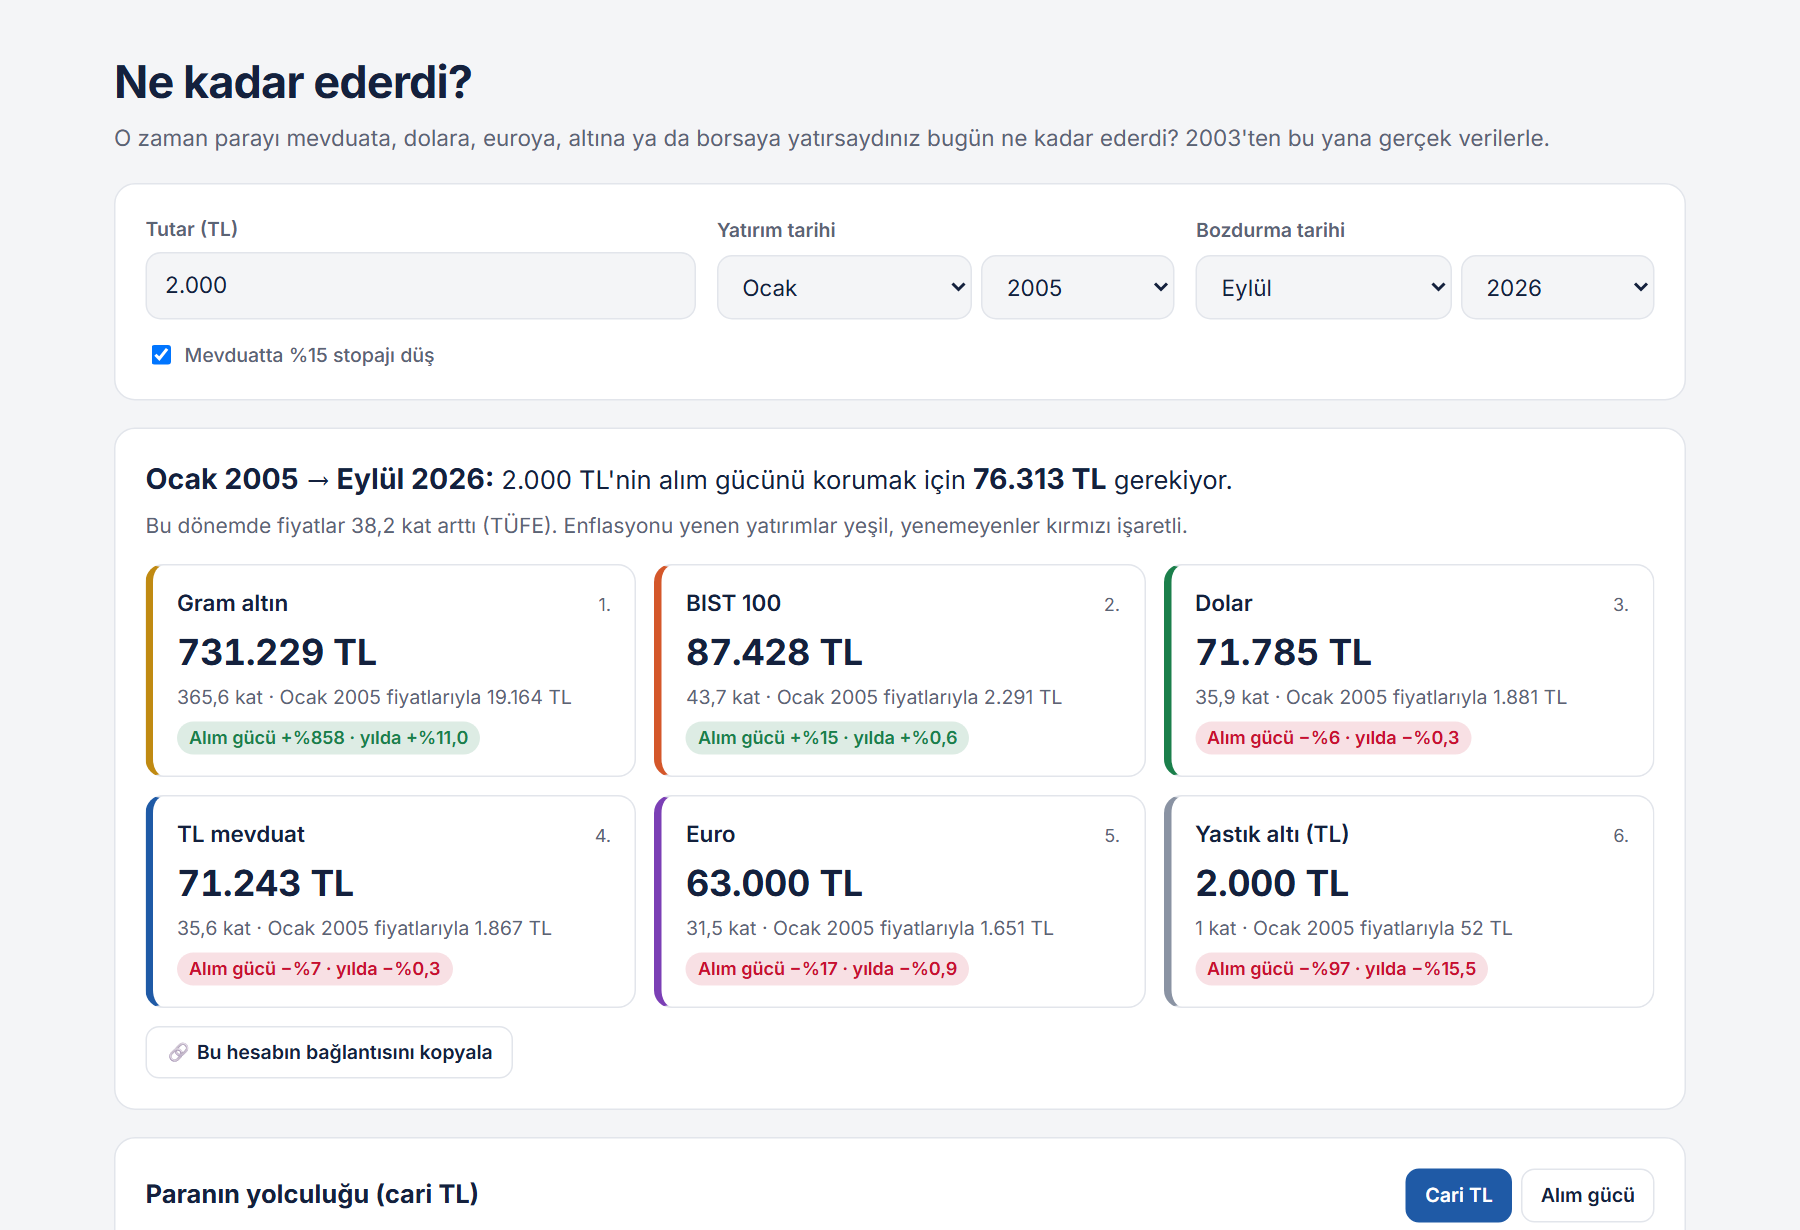
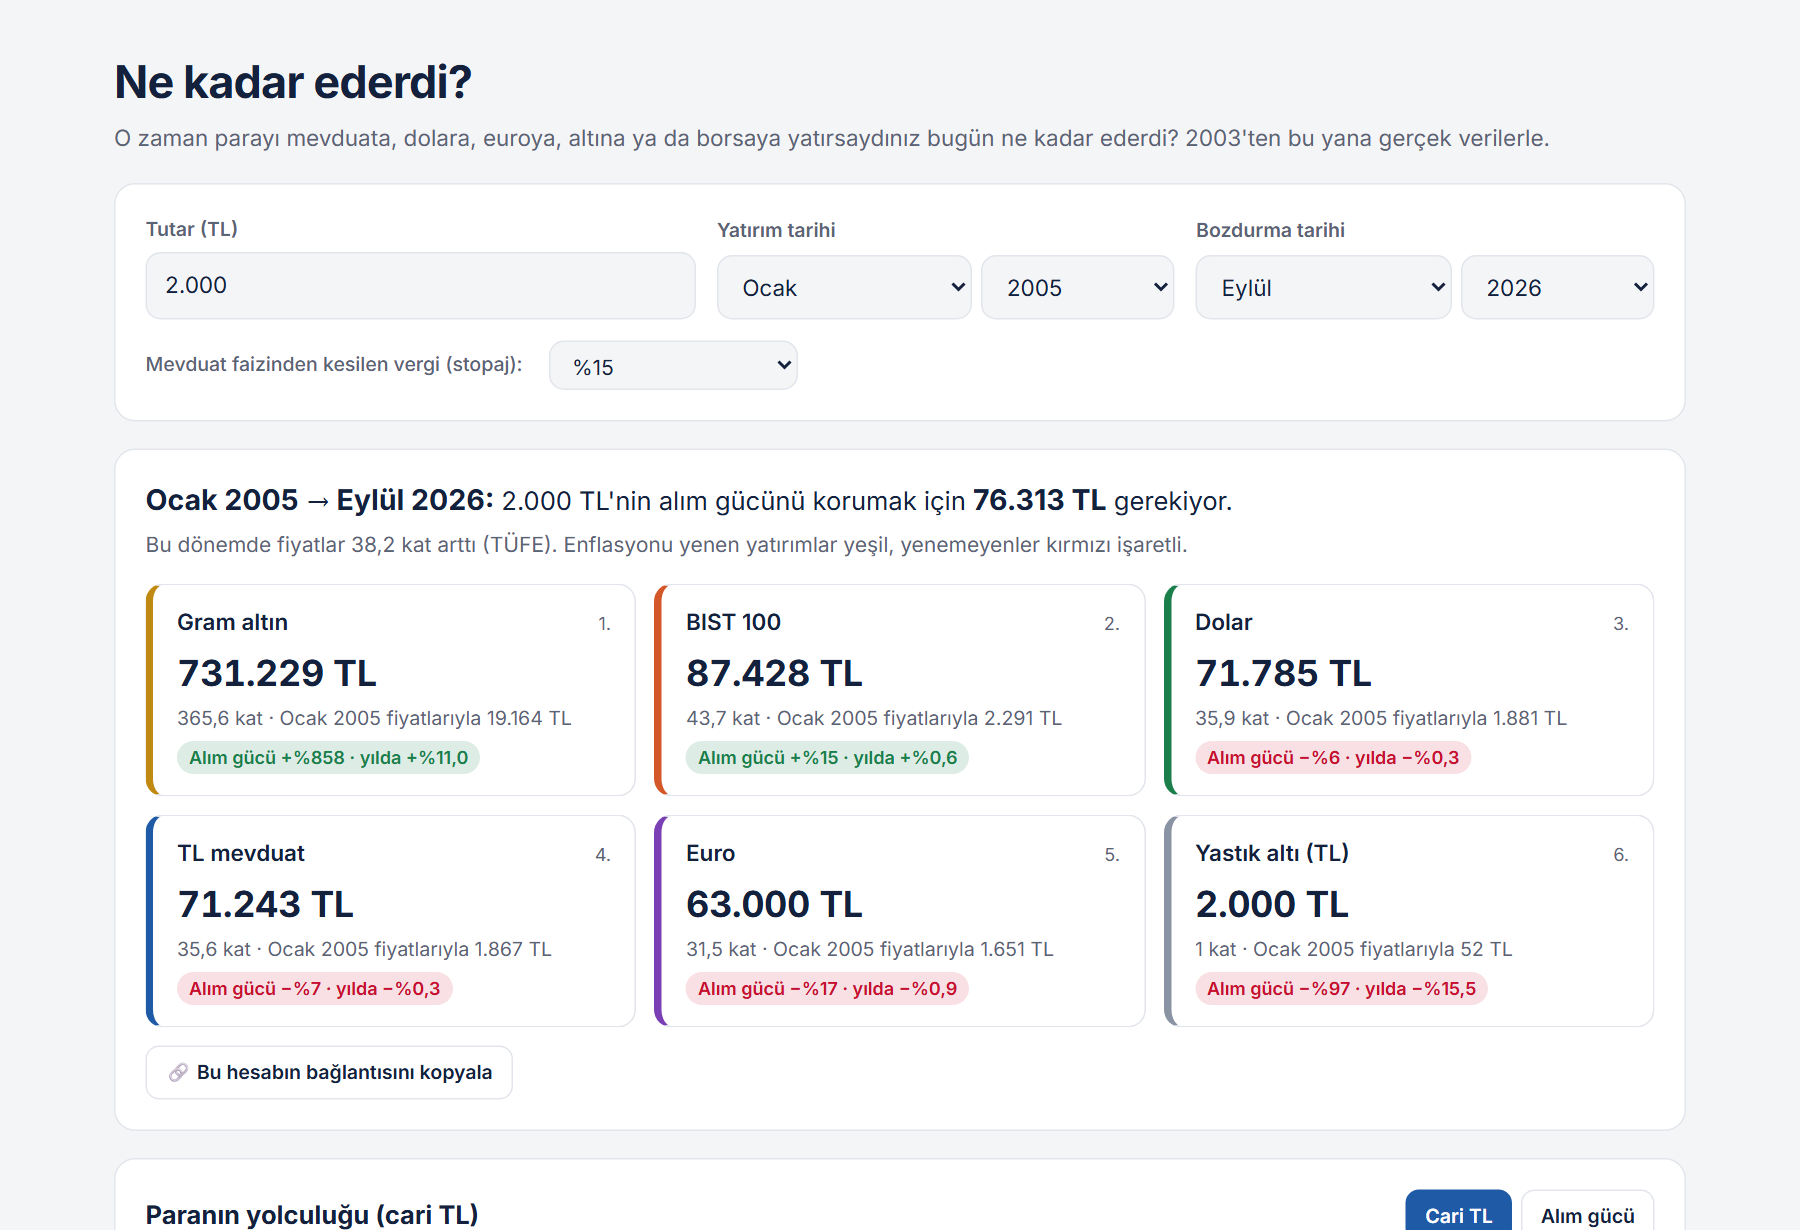
Yazı analizleri ve grafikleri; stopaj oranı seçilebilir

diff --git a/index.html b/index.html
@@ -46,6 +46,7 @@
   .secenek { display: flex; gap: 18px; flex-wrap: wrap; margin-top: 14px; color: var(--muted); font-size: 14px; }
   .secenek label { display: flex; gap: 6px; align-items: center; font-weight: 500; margin: 0; cursor: pointer; }
   .secenek input { width: auto; }
+  .secenek select { padding: 6px 10px; }
   .ozet { font-size: 17px; margin: 0 0 4px; }
   .ozet b { font-size: 19px; }
   .ozet-alt { color: var(--muted); margin: 0; font-size: 14px; }
@@ -107,7 +108,14 @@
       </div>
     </div>
     <div class="secenek">
-      <label><input type="checkbox" id="stopaj" checked> Mevduatta %15 stopajı düş</label>
+      <label for="stopaj">Mevduat faizinden kesilen vergi (stopaj):</label>
+      <select id="stopaj" style="width:auto">
+        <option value="0">Yok (brüt faiz)</option>
+        <option value="5">%5</option>
+        <option value="10">%10</option>
+        <option value="15" selected>%15</option>
+        <option value="17.5">%17,5 (2026 oranı)</option>
+      </select>
     </div>
   </section>
 
@@ -136,7 +144,7 @@
   <section class="panel not">
     <h3>Nasıl hesaplanıyor?</h3>
     <ul>
-      <li><b>Mevduat:</b> Para her ay, o ay bankaların 3 aya kadar vadeli TL mevduata fiilen uyguladığı ağırlıklı ortalama faizin 1/12'si kadar büyür ve faiz anaparaya eklenir (TCMB). Stopaj seçiliyse faizin %15'i düşülür; gerçekte stopaj oranı yıllar içinde %0 ile %18 arasında değişti.</li>
+      <li><b>Mevduat:</b> Para her ay, o ay bankaların 3 aya kadar vadeli TL mevduata fiilen uyguladığı ağırlıklı ortalama faizin 1/12'si kadar büyür ve faiz anaparaya eklenir (TCMB). Seçtiğiniz stopaj oranı faizden düşülür; gerçekte bu oran yıllar içinde değişti (bugün 6 aya kadar vadede %17,5).</li>
       <li><b>Dolar ve euro:</b> Başlangıç ayının ortalama kurundan alınır, bitiş ayının ortalama kurundan bozdurulur (Avrupa Merkez Bankası referans kurları).</li>
       <li><b>Altın:</b> Gram altın = ons fiyatı ($) × dolar kuru ÷ 31,1035. Kuyumcu makası ve işçilik dahil değil (Dünya Bankası, aylık ortalama ons fiyatı).</li>
       <li><b>BIST 100:</b> Ay sonu kapanış değerleri. Bu bir fiyat endeksi; temettüler dahil değil, yani hisse getirisini olduğundan düşük gösterir.</li>
@@ -188,7 +196,7 @@ const indeks = (y, m) => V.aylar.indexOf(`${y}-${String(m).padStart(2, "0")}`);
 
 // i. aydan j. aya her varlığın büyüme çarpanı (j >= i)
 function seriler(i, j) {
-  const s = $("stopaj").checked ? 0.15 : 0;
+  const s = +$("stopaj").value / 100;
   const out = { mevduat: [1], usd: [], eur: [], altin: [], bist: [], tl: [], tufe: [] };
   for (let k = i; k <= j; k++) {
     if (k > i) out.mevduat.push(out.mevduat.at(-1) * (1 + V.faiz[k - 1] / 1200 * (1 - s)));
@@ -228,7 +236,7 @@ function hesapla() {
 
   ciz(i, j, S, T);
   const q = new URLSearchParams({ tutar: T, bas: V.aylar[i], son: V.aylar[j] });
-  if (!$("stopaj").checked) q.set("stopaj", "0");
+  if ($("stopaj").value !== "15") q.set("stopaj", $("stopaj").value);
   history.replaceState(null, "", "?" + q);
 }
 
@@ -292,7 +300,7 @@ fetch("veri.json").then(r => r.json()).then(d => {
   if (j < 0) j = V.aylar.length - 1;
   ayarla(i, j);
   if (p.get("tutar")) $("tutar").value = (+p.get("tutar")).toLocaleString("tr-TR");
-  if (p.get("stopaj") === "0") $("stopaj").checked = false;
+  if ([...$("stopaj").options].some(o => o.value === p.get("stopaj"))) $("stopaj").value = p.get("stopaj");
   $("kaynakNot").textContent = `Veri: ${ayAdi(V.aylar[0])} – ${ayAdi(V.aylar.at(-1))}. Kaynaklar: IMF (TÜFE), TCMB (mevduat faizi), Avrupa Merkez Bankası (kurlar), Dünya Bankası (altın), Borsa İstanbul / Yahoo Finance (BIST 100). Son güncelleme: ${V.guncelleme}.`;
   hesapla();
 });

diff --git a/analiz.py b/analiz.py
@@ -1,0 +1,214 @@
+"""Yazı için analiz ve grafikler: "Mevduat mı, altın mı, döviz mi?"
+
+Girdi: veri/aylik_seri.csv (veri_hazirla.py üretir), veri/imf_tavan_faiz.csv (karşılaştırma için)
+Çıktı: gorseller/*.png ve ekrana yazdırılan rakamlar
+"""
+from pathlib import Path
+
+import matplotlib
+matplotlib.use("Agg")
+import matplotlib.pyplot as plt
+import matplotlib.ticker as mtick
+import numpy as np
+import pandas as pd
+
+KOK = Path(__file__).parent
+GORSEL = KOK / "gorseller"
+GORSEL.mkdir(exist_ok=True)
+STOPAJ = 0.15
+TUTAR = 1000
+BAS, SON = "2005-01", "2026-09"
+
+AD = {"altin": "Gram altın", "bist": "BIST 100", "usd": "Dolar", "mevduat": "TL mevduat", "eur": "Euro", "tl": "Yastık altı"}
+RENK = {"altin": "#C08A12", "bist": "#D4572A", "usd": "#1B7F4B", "mevduat": "#1F5AA6", "eur": "#7B3FB5", "tl": "#8A93A3"}
+plt.rcParams.update({
+    "figure.dpi": 110, "savefig.dpi": 160, "axes.spines.top": False, "axes.spines.right": False,
+    "axes.grid": True, "grid.alpha": 0.25, "axes.titleweight": "bold", "axes.titlesize": 13, "font.size": 10.5,
+})
+
+
+def kaydet(fig, ad, kaynak="IMF, TCMB, ECB, Dünya Bankası, Borsa İstanbul"):
+    fig.text(0.99, 0.005, f"Kaynak: {kaynak} · Analiz: Mehmet Vural", ha="right", va="bottom", fontsize=8, color="#777")
+    fig.tight_layout(rect=(0, 0.03, 1, 1))
+    fig.savefig(GORSEL / f"{ad}.png", bbox_inches="tight", facecolor="white")
+    plt.close(fig)
+
+
+def tl(x):
+    return f"{x:,.0f}".replace(",", ".") + " TL"
+
+
+# --- Seri: her varlık için "1 TL'nin değeri" endeksi -------------------------------
+d = pd.read_csv(KOK / "veri" / "aylik_seri.csv", index_col=0)
+d.index = pd.PeriodIndex(d.index, freq="M")
+deger = pd.DataFrame({
+    "altin": d.altin_gram, "bist": d.bist, "usd": d.usd, "eur": d.eur,
+    "mevduat": (1 + d.faiz / 1200 * (1 - STOPAJ)).cumprod().shift(1, fill_value=1.0),
+    "tl": 1.0,
+})
+tufe = d.tufe
+reel = deger.div(tufe, axis=0)  # alım gücü endeksi
+
+
+def getiri(bas, son, gercek=True):
+    g = reel if gercek else deger
+    return g.loc[son] / g.loc[bas] - 1
+
+
+# --- 1. Ana sonuç: Ocak 2005'te 1.000 TL ---------------------------------------
+enf = tufe[SON] / tufe[BAS]
+r = getiri(BAS, SON).sort_values()
+n = getiri(BAS, SON, gercek=False)
+print(f"Fiyatlar {BAS}→{SON}: {enf:.1f} kat; gereken {tl(TUTAR * enf)}")
+for k in r.index[::-1]:
+    print(f"  {AD[k]:12s} cari {tl(TUTAR * (1 + n[k])):>12s}  alım gücü {TUTAR * (1 + r[k]):>8.0f} TL ({r[k]:+.0%})")
+
+fig, ax = plt.subplots(figsize=(10, 5))
+y = np.arange(len(r))
+ax.barh(y, TUTAR * (1 + r.values), color=[RENK[k] for k in r.index])
+ax.axvline(TUTAR, color="#14213d", lw=1.5, ls="--")
+ax.text(TUTAR + 80, -0.75, "kesikli çizgi: başladığınız yer (1.000 TL)", color="#14213d", fontsize=9, va="center")
+ax.set_ylim(-1.1, len(r) - 0.5)
+for i, k in enumerate(r.index):
+    v = TUTAR * (1 + r[k])
+    ax.text(v + 120, i, f"{v:,.0f} TL".replace(",", ".") + f"   (bugün {tl(TUTAR * (1 + n[k]))})", va="center", fontsize=9.5)
+ax.set_yticks(y, [AD[k] for k in r.index])
+ax.set_xlim(0, TUTAR * (1 + r.max()) * 1.45)
+ax.xaxis.set_major_formatter(mtick.FuncFormatter(lambda v, _: f"{v:,.0f}".replace(",", ".")))
+ax.set_xlabel("Alım gücü: 2005 fiyatlarıyla kaç TL'lik mal alabilir?")
+ax.set_title("Ocak 2005'te 1.000 TL yatırsaydınız, Eylül 2026'da alım gücünüz")
+ax.grid(axis="y", visible=False)
+kaydet(fig, "1_sonuc")
+
+# --- 2. Alım gücünün yolculuğu ---------------------------------------------------
+yol = TUTAR * reel.loc[BAS:SON] / reel.loc[BAS]
+fig, ax = plt.subplots(figsize=(10, 5.2))
+x = yol.index.to_timestamp()
+for k in ["altin", "bist", "usd", "mevduat", "eur", "tl"]:
+    ax.plot(x, yol[k], color=RENK[k], lw=2.2 if k in ("altin", "mevduat") else 1.6, ls="--" if k == "tl" else "-", label=AD[k])
+ax.axhline(TUTAR, color="#14213d", lw=1, ls=":")
+ax.set_yscale("log")
+ax.set_yticks([50, 100, 250, 500, 1000, 2500, 5000, 10000, 20000])
+ax.yaxis.set_major_formatter(mtick.FuncFormatter(lambda v, _: f"{v:,.0f}".replace(",", ".")))
+ax.set_ylabel("2005 fiyatlarıyla TL (logaritmik)")
+ax.set_title("1.000 TL'nin alım gücü yıllar içinde nasıl değişti?")
+ax.legend(ncol=3, frameon=False, loc="upper left")
+kaydet(fig, "2_yolculuk")
+
+# --- 3. Yıl yıl kazananlar (takvim yılı reel getiri) -------------------------------
+yillar = list(range(2003, 2026))
+yillik = pd.DataFrame({y: reel.loc[f"{y}-12"] / reel.loc[f"{y - 1}-12"] - 1 if y > 2003 else
+                       reel.loc["2003-12"] / reel.loc["2003-01"] - 1 for y in yillar}).T
+yillik.index.name = "yil"
+sira = ["altin", "bist", "usd", "eur", "mevduat"]
+birinci = yillik[sira].idxmax(axis=1)
+print("\nYıllık birinciler:", birinci.map(AD).value_counts().to_dict())
+print("Mevduatın enflasyonu yendiği yıllar:", [y for y in yillar if yillik.loc[y, "mevduat"] > 0])
+print("Son ve ilk sırada olma:", yillik[sira].idxmin(axis=1).map(AD).value_counts().to_dict())
+
+fig, ax = plt.subplots(figsize=(12, 4.6))
+for j, y in enumerate(yillar):
+    s = yillik.loc[y, sira].sort_values(ascending=False)
+    for i, (k, v) in enumerate(s.items()):
+        ax.add_patch(plt.Rectangle((j, -i), 0.94, 0.9, color=RENK[k], alpha=0.95 if v > 0 else 0.35, lw=0))
+        ax.text(j + 0.47, -i + 0.45, f"{v * 100:+.0f}", ha="center", va="center", fontsize=7.6,
+                color="white" if v > 0 else "#14213d", fontweight="bold")
+ax.set_xlim(0, len(yillar)); ax.set_ylim(-len(sira) + 0.9, 1)
+ax.set_xticks(np.arange(len(yillar)) + 0.47, [str(y) if y > 2003 else "2003*" for y in yillar], fontsize=8.5, rotation=90)
+ax.set_yticks([0.45 - i for i in range(len(sira))], ["1.", "2.", "3.", "4.", "5."])
+ax.grid(False); [ax.spines[s].set_visible(False) for s in ("left", "bottom")]
+ax.tick_params(length=0)
+for k in sira:
+    ax.bar(0, 0, color=RENK[k], label=AD[k])
+ax.legend(ncol=5, frameon=False, loc="lower center", bbox_to_anchor=(0.5, 1.0))
+ax.set_title("Her yıl kim kazandı? Enflasyondan arındırılmış yıllık getiri (%)", pad=30)
+fig.text(0.01, 0.005, "Soluk kutular: o yıl alım gücü kaybettiren yatırım. *2003: Ocak–Aralık.", fontsize=8, color="#777")
+kaydet(fig, "3_yillar")
+
+# --- 4. En kötü dönem: zirveden en büyük reel düşüş --------------------------------
+print("\nZirveden en büyük reel düşüş:")
+dusus = {}
+for k in sira:
+    s = reel[k].loc["2003-01":SON]
+    zirve = s.cummax(); dd = s / zirve - 1
+    dip = dd.idxmin(); tepe = s.loc[:dip].idxmax()
+    sonra = s.loc[dip:]; geri = sonra[sonra >= s[tepe]]
+    toparlanma = geri.index[0] if len(geri) else None
+    dusus[k] = (dd.min(), tepe, dip, toparlanma)
+    print(f"  {AD[k]:12s} {dd.min():+.0%}  {tepe} → {dip}  toparlanma: {toparlanma}")
+
+fig, ax = plt.subplots(figsize=(10, 4.6))
+ks = sorted(sira, key=lambda k: dusus[k][0])
+ax.barh(range(len(ks)), [dusus[k][0] * 100 for k in ks], color=[RENK[k] for k in ks])
+for i, k in enumerate(ks):
+    v, t, dp, tp = dusus[k]
+    ay = lambda p: ["Oca", "Şub", "Mar", "Nis", "May", "Haz", "Tem", "Ağu", "Eyl", "Eki", "Kas", "Ara"][p.month - 1] + f" {p.year}"
+    not_ = f"{ay(t)} → {ay(dp)}  ·  " + (f"eski seviyeye dönüş: {ay(tp)}" if tp is not None else "henüz eski seviyesine dönmedi")
+    ax.text(v * 100 - 1, i, f"%{abs(v) * 100:.0f}   ", ha="right", va="center", fontsize=10, fontweight="bold")
+    ax.text(1, i, not_, va="center", fontsize=9)
+ax.set_yticks(range(len(ks)), [AD[k] for k in ks])
+ax.set_xlim(min(dusus[k][0] for k in ks) * 100 - 14, 70)
+ax.xaxis.set_major_formatter(mtick.FuncFormatter(lambda v, _: f"%{v:.0f}" if v <= 0 else ""))
+ax.set_title("En kötü dönem: Alım gücü zirveden en fazla ne kadar düştü?")
+ax.grid(axis="y", visible=False)
+kaydet(fig, "4_dusus")
+
+# --- 5. Ne kadar beklersen: enflasyonu yenme ihtimali --------------------------------
+sureler = [1, 2, 3, 5, 10]
+olasilik = pd.DataFrame(index=sureler, columns=sira, dtype=float)
+medyan = olasilik.copy()
+s = reel.loc["2003-01":SON]
+for yil in sureler:
+    g = s.shift(-12 * yil) / s - 1
+    g = g.dropna()
+    olasilik.loc[yil] = (g[sira] > 0).mean()
+    medyan.loc[yil] = g[sira].median()
+print("\nEnflasyonu yenme oranı (başlangıç ayları):\n", (olasilik * 100).round(0).to_string())
+print("Medyan reel getiri:\n", (medyan * 100).round(0).to_string())
+
+fig, ax = plt.subplots(figsize=(10, 4.8))
+w = 0.16
+for i, k in enumerate(sira):
+    ax.bar(np.arange(len(sureler)) + (i - 2) * w, olasilik[k] * 100, w * 0.95, color=RENK[k], label=AD[k])
+ax.axhline(50, color="#14213d", lw=1, ls=":", label="%50 (yazı tura)")
+ax.set_xticks(range(len(sureler)), [f"{y} yıl" for y in sureler])
+ax.yaxis.set_major_formatter(mtick.PercentFormatter())
+ax.set_ylim(0, 105)
+ax.set_xlabel("Paranızı ne kadar süre tuttunuz?")
+ax.set_ylabel("Enflasyonu yendiğiniz dönemlerin oranı")
+ax.set_title("Ne kadar uzun beklerseniz: Enflasyonu yenme ihtimali (2003–2026)")
+ax.legend(ncol=6, frameon=False, loc="upper center", bbox_to_anchor=(0.5, -0.17), fontsize=9.5)
+ax.grid(axis="x", visible=False)
+kaydet(fig, "5_sure")
+
+# --- 6. Veri tuzağı: tavan faiz mi, ortalama faiz mi? ---------------------------------
+imf = pd.read_csv(KOK / "veri" / "imf_tavan_faiz.csv")
+imf = pd.Series(imf.OBS_VALUE.values, index=pd.PeriodIndex(imf.TIME_PERIOD.str.replace("-M", "-"), freq="M")).sort_index()
+ort = d.faiz
+fark = (imf - ort).dropna()
+print(f"\nTavan - ortalama faiz farkı: ortalama {fark.mean():.1f} puan, en fazla {fark.max():.1f} ({fark.idxmax()})")
+print("Ocak 2023:", imf["2023-01"], ort["2023-01"])
+mev_tavan = (1 + imf.reindex(d.index).ffill() / 1200 * (1 - STOPAJ)).cumprod().shift(1, fill_value=1.0) / tufe
+t_r = mev_tavan[SON] / mev_tavan[BAS] - 1
+print(f"Tavan faizle mevduat {BAS}→{SON} alım gücü: {t_r:+.0%}  (ortalama faizle {r['mevduat']:+.0%})")
+
+fig, ax = plt.subplots(figsize=(10, 4.6))
+x = ort.index.to_timestamp()
+ax.plot(imf.index.to_timestamp(), imf, color="#C8102E", lw=1.8, label="Uluslararası veri tabanındaki \"mevduat faizi\" (aslında tavan faiz)")
+ax.plot(x, ort, color="#1F5AA6", lw=2.2, label="Bankaların fiilen ödediği ortalama faiz (TCMB)")
+ax.fill_between(x, ort, imf.reindex(ort.index).values, color="#C8102E", alpha=0.08)
+ax.yaxis.set_major_formatter(mtick.PercentFormatter(decimals=0))
+ax.set_title("Hangi mevduat faizi? Tavan ile ortalama arasındaki fark")
+ax.legend(frameon=False, loc="upper center")
+ax.set_ylabel("Yıllık faiz")
+kaydet(fig, "6_faiz_tuzagi", kaynak="IMF, TCMB")
+
+# --- Ek rakamlar -----------------------------------------------------------------
+print("\nBaşlangıç yılına göre (Ocak→Eylül 2026) mevduat ve dolar alım gücü:")
+for y in [2003, 2005, 2010, 2015, 2018, 2020, 2021, 2022, 2023, 2024]:
+    g = getiri(f"{y}-01", SON)
+    print(f"  {y}: " + "  ".join(f"{AD[k]} {g[k]:+.0%}" for k in ["altin", "bist", "usd", "mevduat", "eur", "tl"]))
+print("\nSon 12 ay (2025-09→2026-09):", {AD[k]: f"{v:+.0%}" for k, v in getiri("2025-09", SON).items()})
+print("Ocak 2005 → Eylül 2026 gram altın:", round(d.altin_gram[BAS], 1), "→", round(d.altin_gram[SON]), "TL;",
+      "dolar:", round(d.usd[BAS], 2), "→", round(d.usd[SON], 2))
+print("Yıllık enflasyon ortalaması (bileşik):", f"{enf ** (12 / (len(yol) - 1)) - 1:.1%}")

diff --git a/README.md b/README.md
@@ -12,7 +12,7 @@ Tutarı ve iki tarihi seçin; sayfa altı yatırım seçeneğinin sonucunu hem c
 
 | Seçenek | Nasıl hesaplanıyor? | Kaynak |
 |---|---|---|
-| **TL mevduat** | Para her ay, bankaların 3 aya kadar vadeli TL mevduata fiilen uyguladığı ağırlıklı ortalama faizin 1/12'si kadar büyür (aylık bileşik). İsteğe bağlı %15 stopaj. | TCMB EVDS (TP.TRY.MT02) |
+| **TL mevduat** | Para her ay, bankaların 3 aya kadar vadeli TL mevduata fiilen uyguladığı ağırlıklı ortalama faizin 1/12'si kadar büyür (aylık bileşik). Stopaj oranı seçilebilir (yok, %5, %10, %15, %17,5). | TCMB EVDS (TP.TRY.MT02) |
 | **Dolar / Euro** | Başlangıç ayının ortalama kurundan alınır, bitiş ayının ortalama kurundan bozdurulur. | Avrupa Merkez Bankası referans kurları |
 | **Gram altın** | Ons fiyatı ($) × dolar kuru ÷ 31,1035 | Dünya Bankası Pink Sheet |
 | **BIST 100** | Ay sonu kapanış değeri (fiyat endeksi, temettü hariç) | Borsa İstanbul / Yahoo Finance |
@@ -35,11 +35,11 @@ Hesabın bağlantısı paylaşılabilir: [`?tutar=2000&bas=2005-01`](https://meh
 
 ## Veri hakkında bir not: Hangi mevduat faizi?
 
-Uluslararası veri tabanlarındaki (IMF, Dünya Bankası) Türkiye "deposit rate" serisi, bankaların **uygulayabileceği azami (tavan) faiz**. Ortalamayı yıllara göre 5–15 puan yüksek gösteriyor (ör. Ocak 2023: tavan %35, ortalama %15,5). Bu seriyle hesaplandığında 2005'ten bu yana mevduat, alım gücünü %168 artırmış görünüyor; gerçek ortalama faizle sonuç **−%7**. Bu yüzden hesaplayıcı TCMB'nin **fiilen uygulanan ağırlıklı ortalama** faizini kullanıyor.
+Uluslararası veri tabanlarındaki (IMF, Dünya Bankası) Türkiye "deposit rate" serisi, bankaların **uygulayabileceği azami (tavan) faiz**. Ortalamayı 2003–2026 boyunca ortalama 5 puan, bazı aylarda 25 puana kadar yüksek gösteriyor (ör. Ocak 2023: tavan %35, 3 aya kadar vadede ortalama %24,5). Bu seriyle hesaplandığında 2005'ten bu yana mevduat, alım gücünü %168 artırmış görünüyor; gerçek ortalama faizle (%15 stopaj) sonuç **−%7**. Bu yüzden hesaplayıcı TCMB'nin **fiilen uygulanan ağırlıklı ortalama** faizini kullanıyor.
 
 ## Sınırlılıklar
 
-- Mevduat hesabı aylık bileşik bir yaklaşım; gerçekte vade, banka ve tutara göre faiz farklıdır. Stopaj oranı yıllar içinde %0 ile %18 arasında değişti; hesaplayıcı tek bir oran (%15) kullanır.
+- Mevduat hesabı aylık bileşik bir yaklaşım; gerçekte vade, banka ve tutara göre faiz farklıdır. Stopaj oranı yıllar içinde değişti; hesaplayıcı seçilen tek bir oranı bütün döneme uygular. Sonuç bu orana çok duyarlı: 2005–2026 için stopajsız +%74, %15 stopajla −%7.
 - Kur makası, kuyumcu makası, işçilik, komisyon ve diğer vergiler dahil değil.
 - BIST 100 fiyat endeksi temettüleri içermez; hisse getirisini olduğundan düşük gösterir.
 - Aylık ortalama veriler kullanıldı; ay içindeki dalgalanmalar yansımaz.
@@ -48,7 +48,7 @@ Uluslararası veri tabanlarındaki (IMF, Dünya Bankası) Türkiye "deposit rate
 ## Çalıştırma
 
 ```bash
-pip install pandas openpyxl
+pip install pandas openpyxl matplotlib
 python veri_hazirla.py --indir   # verileri kaynaklardan indirir, veri.json'u üretir
 python -m http.server            # http://localhost:8000
 ```
@@ -61,6 +61,7 @@ Sayfa tek bir `index.html` dosyası; derleme gerektirmez. Grafik için Chart.js 
 index.html        Hesaplayıcı (HTML + JavaScript)
 veri.json         Sayfanın kullandığı aylık seri (2003–bugün)
 veri_hazirla.py   Veri indirme ve hazırlama
+analiz.py         Yazıdaki analizler ve grafikler (gorseller/)
 veri/aylik_seri.csv  Aynı serinin tablo hali
 ```
 
